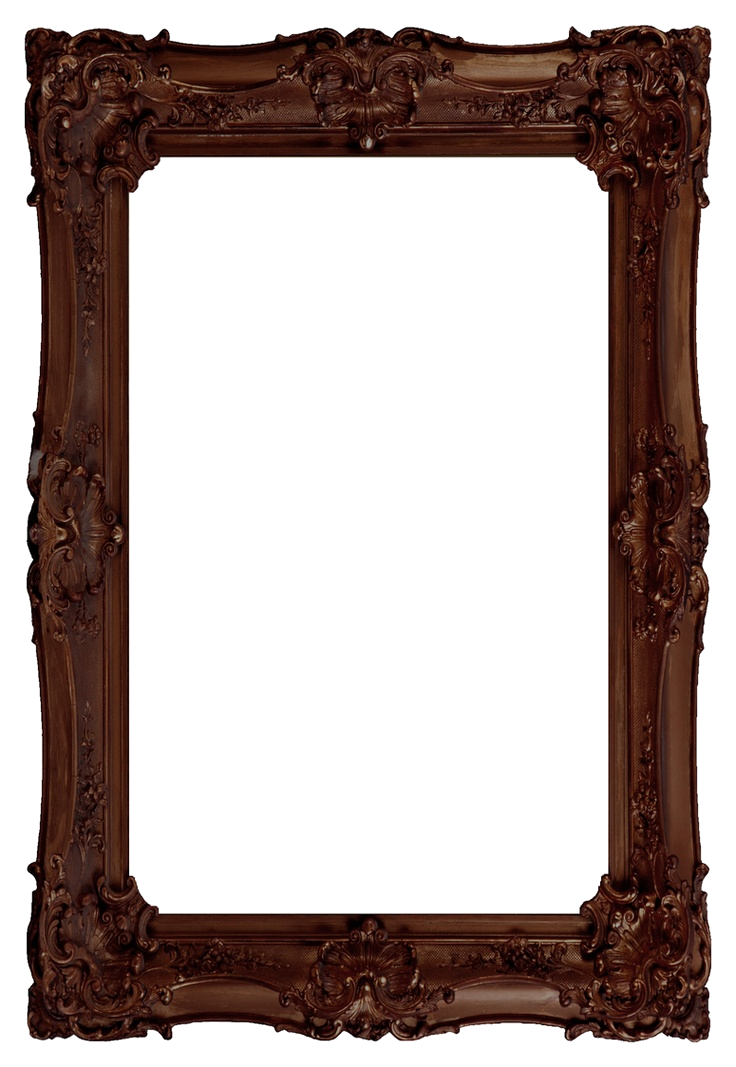
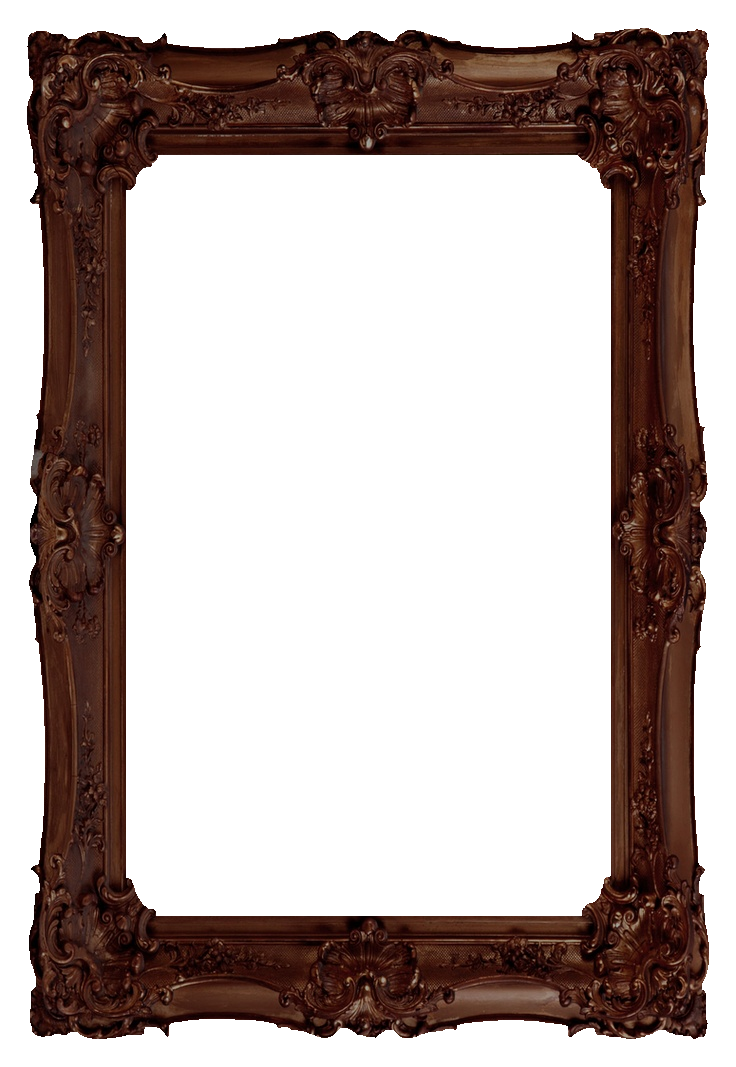
Replace dark wood portrait frame

diff --git a/style.css b/style.css
@@ -979,10 +979,10 @@ body.site-open .full-site {
 .frame-dark-wood {
   --frame-image: url("assets/frame-dark-wood.png");
   --frame-width: clamp(225px, 23vw, 340px);
-  --frame-ratio: 736 / 1104;
-  --photo-inset: 16% 20% 14%;
-  --photo-width: 60%;
-  --photo-height: 70%;
+  --frame-ratio: 736 / 1067;
+  --photo-inset: 12% 17% 14%;
+  --photo-width: 66%;
+  --photo-height: 74%;
 }
 
 .frame-red {